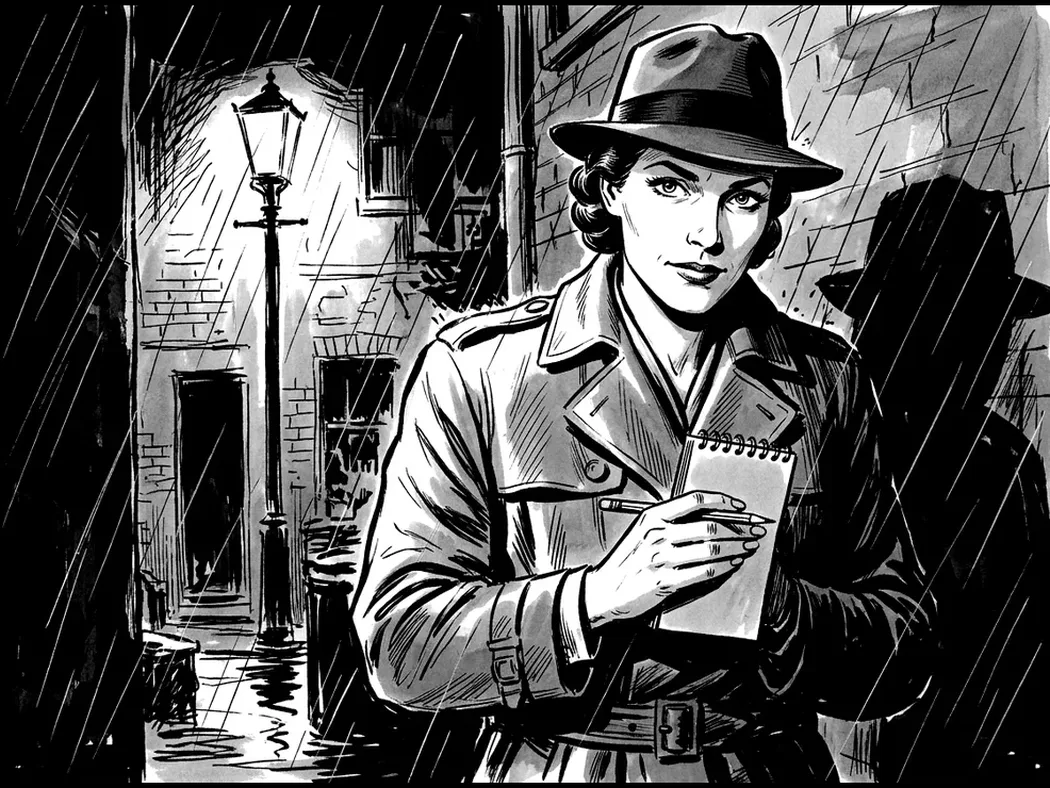
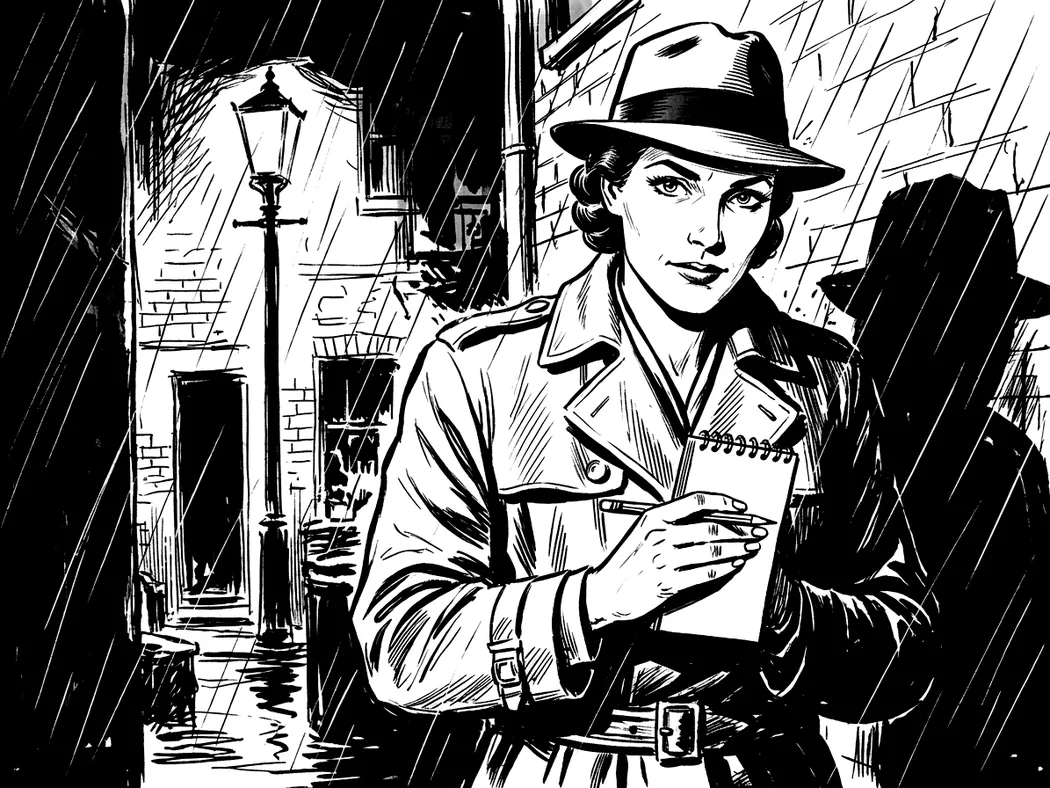
Detektivens rollbilder med mindre lavering
Rocken, väggen och gatan var grå och bilderna stack ut bland
rollbilderna. Omgjorda med de förra som referens; Jonas valde A
(Jonas 2026-11-14).

Claude-Session: https://claude.ai/code/session_01X82C4AptUEE9LHKngPSzUq

diff --git a/docs/bildsmak.md b/docs/bildsmak.md
@@ -78,6 +78,11 @@ på `src/scenes/images/`.
      bilderna.
    - Gillar, lavering: `roll-detektiv-*`, `natt-detektiv-*`,
      `roll-taxichauffor-kvinna`, `natt-lakare-*` (2026-11-14).
+   - Lavering är ett par fläckar, inte en ton över hela bilden. De första
+     nya `roll-detektiv-*` hade grått på rocken, väggen och gatan och stack
+     ut bland rollbilderna (Jonas 2026-11-14: "mycket 'laserat' i dessa
+     bilder, men att det används sparsamt i andra rollbilder"). De ritades
+     om med vit rock och svart vägg.
    - Gillar: `dom-kvinna`, `dom-man`, `roll-bartender-*`, `roll-korvgubbe-*`,
      `skapa`. (`morgon-mord-trappa-kvinna` och `morgon-mord-perrong-kvinna`
      gillades helt svartvita och gjordes om med lavering 2026-11-14: "Jag
@@ -284,6 +289,10 @@ en regel.
   laverad himmel (bortvald): "Jag tycker dimman är snyggare". Med dimman:
   "Kvinnans kropp är för stor i förhållande till lyktstolpen, annars bra".
   Omgjord i samma storlek som mannen.
+- 2026-11-14, `roll-detektiv-*` omgjorda med mindre lavering, med de förra
+  bilderna som referens och uppmaningen att inte ta efter deras grått. Av
+  två försök valdes det med en liten fläck lavering kvar längst bak i
+  gränden: "Vi kör på A!"
 
 ## Bilder att byta
 
